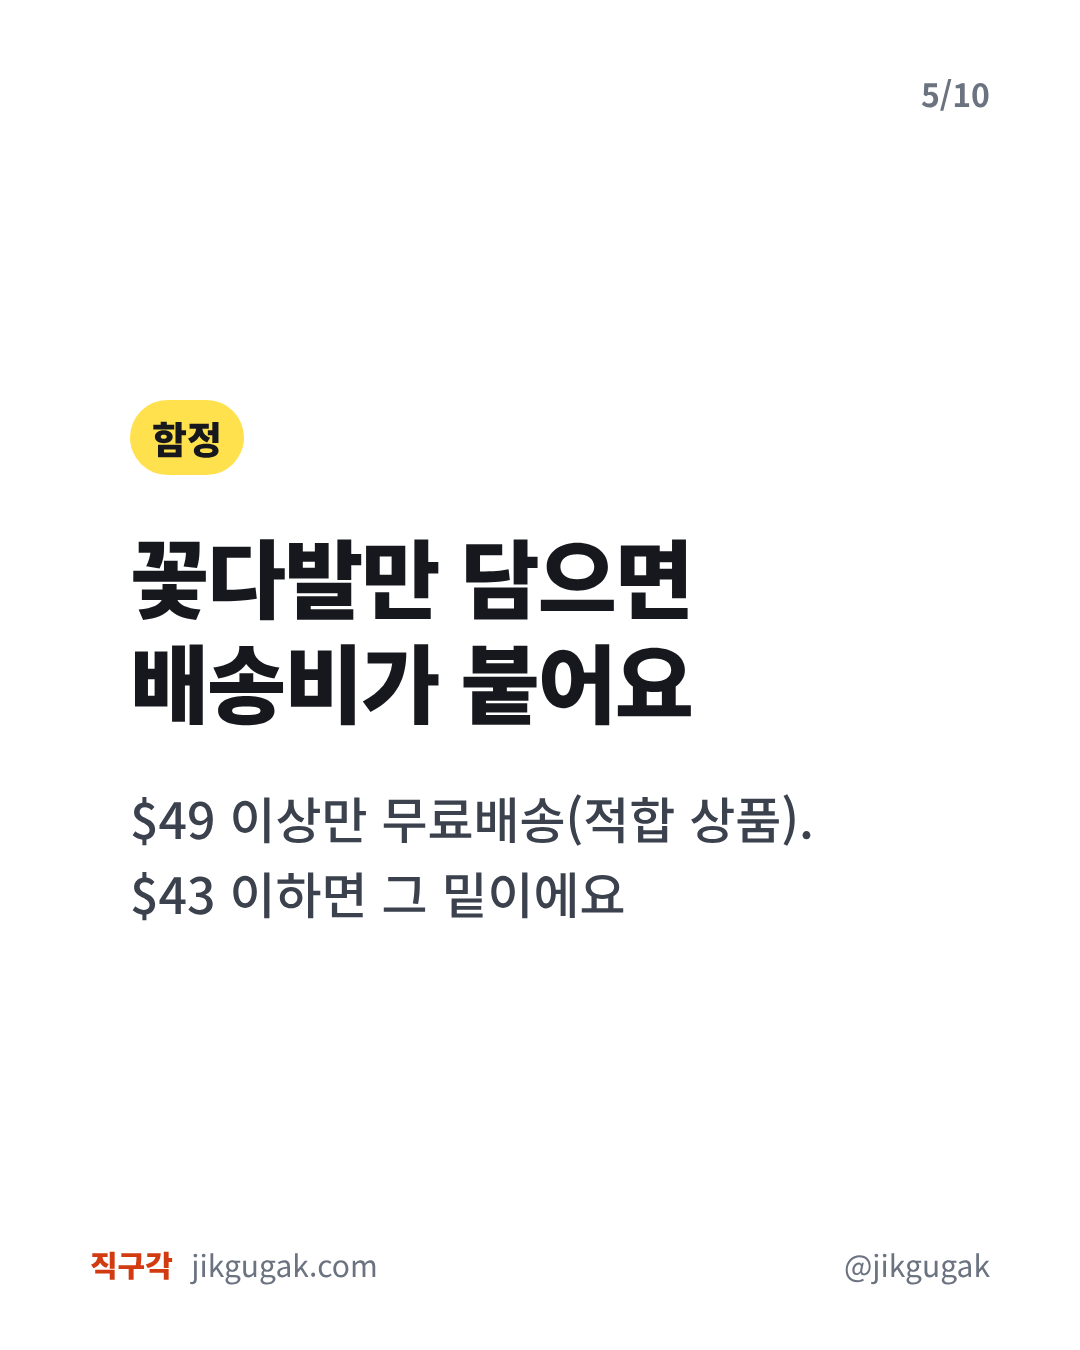
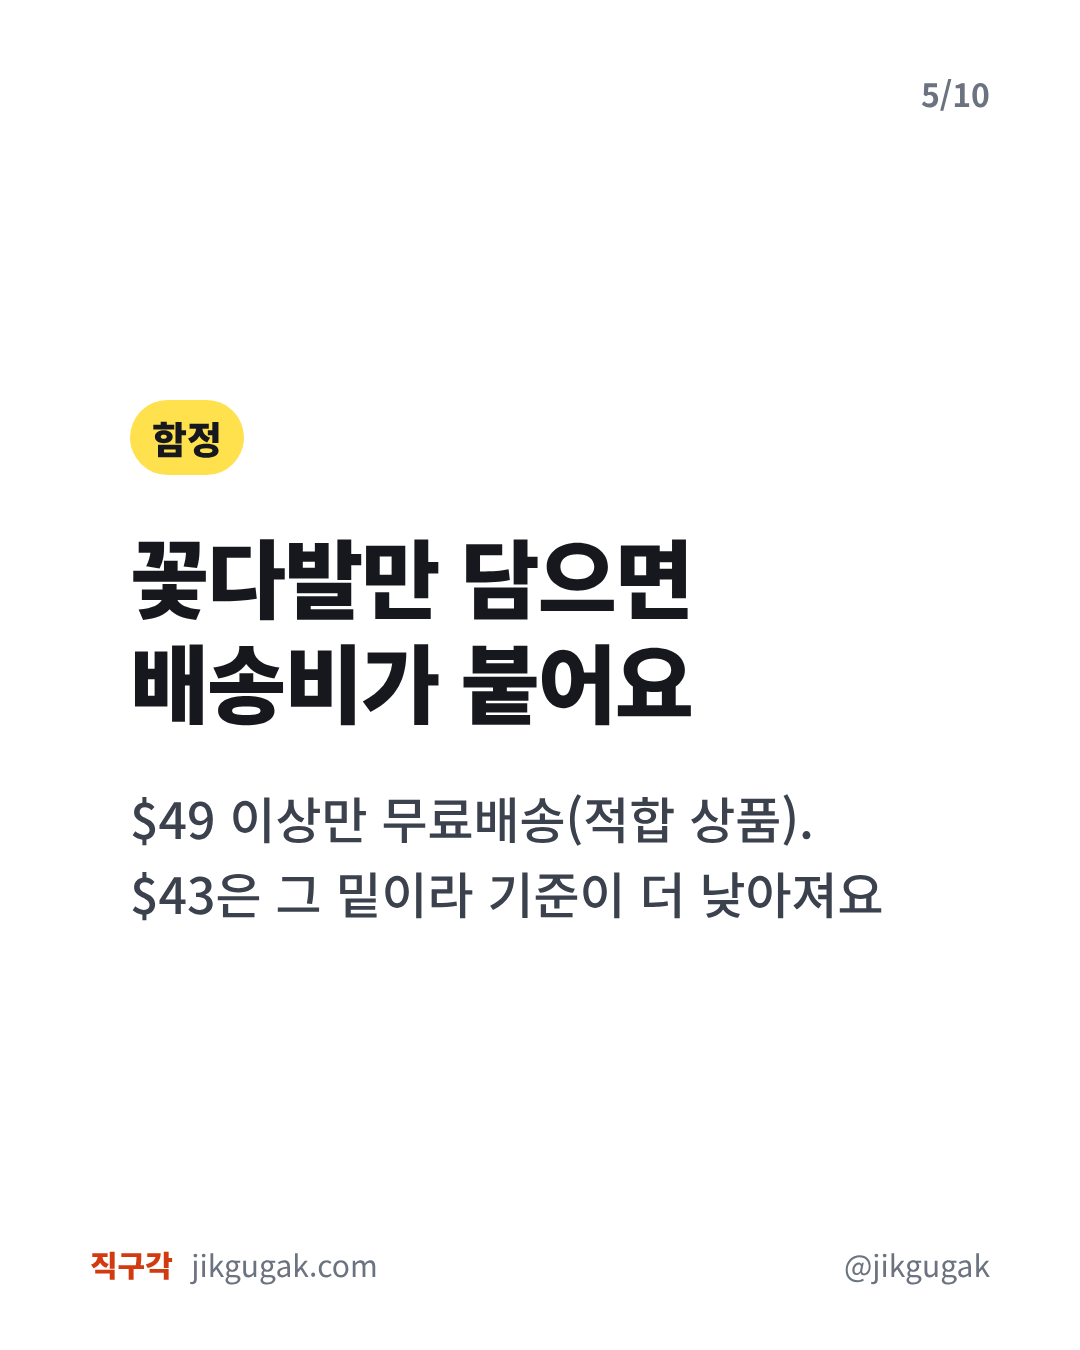
아마존 $49 미만 손익분기에 '합배송 기준·단품은 배송비 별도' 표시, 한국 배송 불가 상품은 구매 버튼 비활성(점검 담당 지적 반영)
Claude-Session: https://claude.ai/code/session_019Cv1aFf1DMQ9eAvVdGwkdU

Changed region(s): [[0.1833, 0.6222, 0.825, 0.6844]]

diff --git a/content/2026-10-22-lego-bouquet/cards/deck.html b/content/2026-10-22-lego-bouquet/cards/deck.html
@@ -45,6 +45,6 @@ h2{font-size:86px;line-height:1.22;font-weight:900;letter-spacing:-2px}
         
[1 lines of base64/hex data omitted]
         <div class="rows"><div class="row dim"><span>쿠팡 (무료배송)</span><b>₩71,570</b></div><div class="row hi"><span>아마존가 이하면 직구각</span><b>$43</b></div></div>
-        <p class="note">10.21 가격 · 10.22 환율 기준.<br>20% 그리고 ₩10,000 이상 쌀 때</p></div><div class="foot"><span class="mark"><b>직구각</b> jikgugak.com</span><span>@jikgugak</span></div></section><section class="slide"><div class="num">4/10</div><div class="content"><div class="label">관세</div><h2>$200 안이라 관세 0원</h2><p class="body">미국 특송 완구는 $200까지 면세.<br>관세 8%·부가세 10% 모두 0원</p><div class="big">$200</div></div><div class="foot"><span class="mark"><b>직구각</b> jikgugak.com</span><span>@jikgugak</span></div></section><section class="slide"><div class="num">5/10</div><div class="content"><div class="label">함정</div><h2>꽃다발만 담으면<br>배송비가 붙어요</h2><p class="body">$49 이상만 무료배송(적합 상품).<br>$43 이하면 그 밑이에요</p></div><div class="foot"><span class="mark"><b>직구각</b> jikgugak.com</span><span>@jikgugak</span></div></section><section class="slide"><div class="num">6/10</div><div class="content"><h2>같이 담으면 깔끔해요</h2>
-        <div class="rows"><div class="row "><span>꽃다발 10280</span><b>$43 이하</b></div><div class="row "><span>다육식물 10309</span><b>$42 이하</b></div><div class="row hi"><span>같은 주문 합계</span><b>$85 이하</b></div></div>
-        <p class="note">다육식물 쿠팡가는 배송비 포함 ₩70,730</p></div><div class="foot"><span class="mark"><b>직구각</b> jikgugak.com</span><span>@jikgugak</span></div></section><section class="slide"><div class="num">7/10</div><div class="content"><div class="label">$1 차이</div><h2>$44부터는 애매</h2><p class="body">배송비 없이 쳐도 18.5%만 싸요.<br>직구각은 20% 이상부터예요</p><div class="big">18.5%</div></div><div class="foot"><span class="mark"><b>직구각</b> jikgugak.com</span><span>@jikgugak</span></div></section><section class="slide"><div class="num">8/10</div><div class="content"><div class="label">예상 11.20~11.30</div><h2>아마존 블프 위크</h2><p class="body">블프 11.27은 확정.<br>선물이면 배송 2~6주 확인</p></div><div class="foot"><span class="mark"><b>직구각</b> jikgugak.com</span><span>@jikgugak</span></div></section><section class="slide"><div class="num">9/10</div><div class="content"><h2>저장용 정리</h2><ol class="recap"><li>꽃다발은 아마존가 $43 이하</li><li>다육식물은 $42 이하</li><li>같이 담아 합계 $85 이하</li><li>한 주문 $200 안으로</li><li>쿠팡가 바뀌면 기준도 바뀜</li></ol></div><div class="foot"><span class="mark"><b>직구각</b> jikgugak.com</span><span>@jikgugak</span></div></section><section class="slide ctaslide"><div class="num">10/10</div><h2 class="cta-t">저장해 두고<br>블프 때 다시 보세요</h2><p class="body">사기 전엔 직구각 페이지에서 다시 확인해요</p><div class="cta-btn">프로필 링크 → jikgugak.com</div><div class="foot"><span class="mark"><b>직구각</b> jikgugak.com</span><span>@jikgugak</span></div></section></body></html>
+        <p class="note">10.21 가격 · 10.22 환율 기준.<br>20% 그리고 ₩10,000 이상 쌀 때</p></div><div class="foot"><span class="mark"><b>직구각</b> jikgugak.com</span><span>@jikgugak</span></div></section><section class="slide"><div class="num">4/10</div><div class="content"><div class="label">관세</div><h2>$200 안이라 관세 0원</h2><p class="body">미국 특송 완구는 $200까지 면세.<br>관세 8%·부가세 10% 모두 0원</p><div class="big">$200</div></div><div class="foot"><span class="mark"><b>직구각</b> jikgugak.com</span><span>@jikgugak</span></div></section><section class="slide"><div class="num">5/10</div><div class="content"><div class="label">함정</div><h2>꽃다발만 담으면<br>배송비가 붙어요</h2><p class="body">$49 이상만 무료배송(적합 상품).<br>$43은 그 밑이라 기준이 더 낮아져요</p></div><div class="foot"><span class="mark"><b>직구각</b> jikgugak.com</span><span>@jikgugak</span></div></section><section class="slide"><div class="num">6/10</div><div class="content"><h2>그럼 어디서 살까</h2>
+        <div class="rows"><div class="row dim"><span>꽃다발만 담기</span><b>배송비 붙음</b></div><div class="row hi"><span>다른 아마존 상품과<br>한 주문 $49 이상</span><b>$43 이하</b></div><div class="row "><span>쿠팡 (무료배송)</span><b>₩71,570</b></div></div>
+        <p class="note">같이 담는 상품도 직구각인지 따로 확인.<br>한 주문 합계는 $200 안으로</p></div><div class="foot"><span class="mark"><b>직구각</b> jikgugak.com</span><span>@jikgugak</span></div></section><section class="slide"><div class="num">7/10</div><div class="content"><div class="label">$1 차이</div><h2>$44부터는 애매</h2><p class="body">배송비 없이 쳐도 18.5%만 싸요.<br>직구각은 20% 이상부터예요</p><div class="big">18.5%</div></div><div class="foot"><span class="mark"><b>직구각</b> jikgugak.com</span><span>@jikgugak</span></div></section><section class="slide"><div class="num">8/10</div><div class="content"><div class="label">예상 11.20~11.30</div><h2>아마존 블프 위크</h2><p class="body">블프 11.27은 확정. 배송이 느려<br>10.22 주문도 11월 중순 도착 예정</p></div><div class="foot"><span class="mark"><b>직구각</b> jikgugak.com</span><span>@jikgugak</span></div></section><section class="slide"><div class="num">9/10</div><div class="content"><h2>저장용 정리</h2><ol class="recap"><li>꽃다발은 아마존가 $43 이하</li><li>혼자 담으면 배송비, 기준 더 낮게</li><li>다른 상품과 한 주문 $49 이상</li><li>한 주문 합계는 $200 안으로</li><li>아니면 쿠팡 ₩71,570</li><li>선물이면 도착일 먼저 확인</li></ol></div><div class="foot"><span class="mark"><b>직구각</b> jikgugak.com</span><span>@jikgugak</span></div></section><section class="slide ctaslide"><div class="num">10/10</div><h2 class="cta-t">저장해 두고<br>블프 때 다시 보세요</h2><p class="body">사기 전엔 직구각 페이지에서 다시 확인해요</p><div class="cta-btn">프로필 링크 → jikgugak.com</div><div class="foot"><span class="mark"><b>직구각</b> jikgugak.com</span><span>@jikgugak</span></div></section></body></html>

diff --git a/public/assets/site.css b/public/assets/site.css
@@ -486,3 +486,4 @@ legend { font-size: 15px; font-weight: 800; padding: 0; margin-bottom: 10px; }
   .pd .risks { order: 6; }
   .pd .buy { order: 7; }
 }
+.warn-line { display: block; margin-top: 6px; color: var(--meh); font-weight: 700; }
